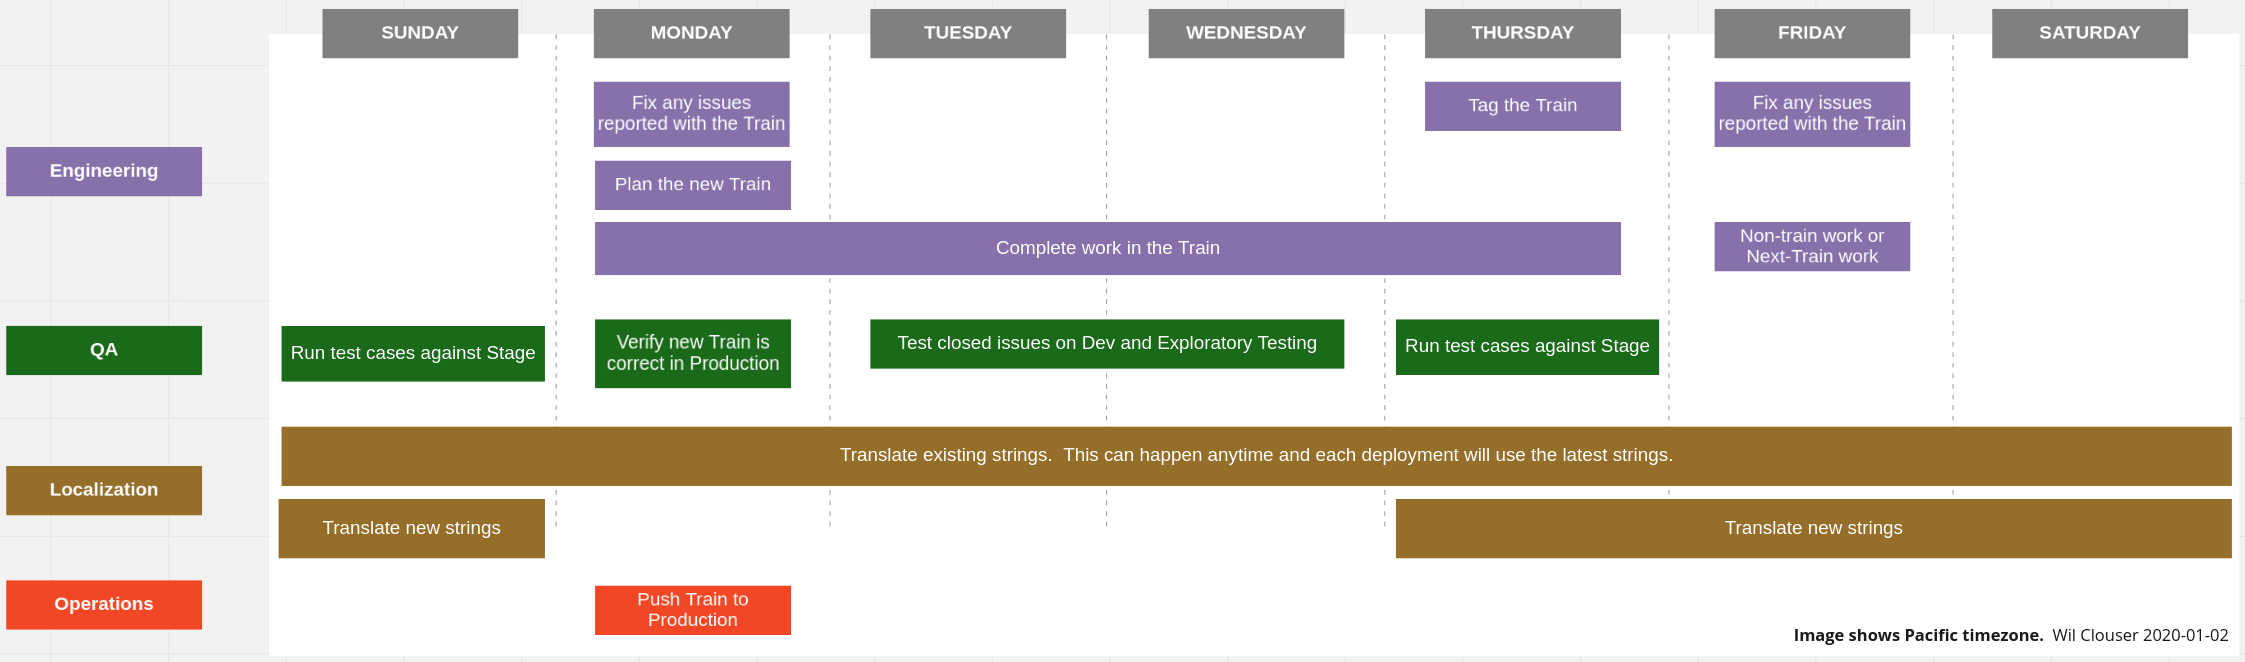
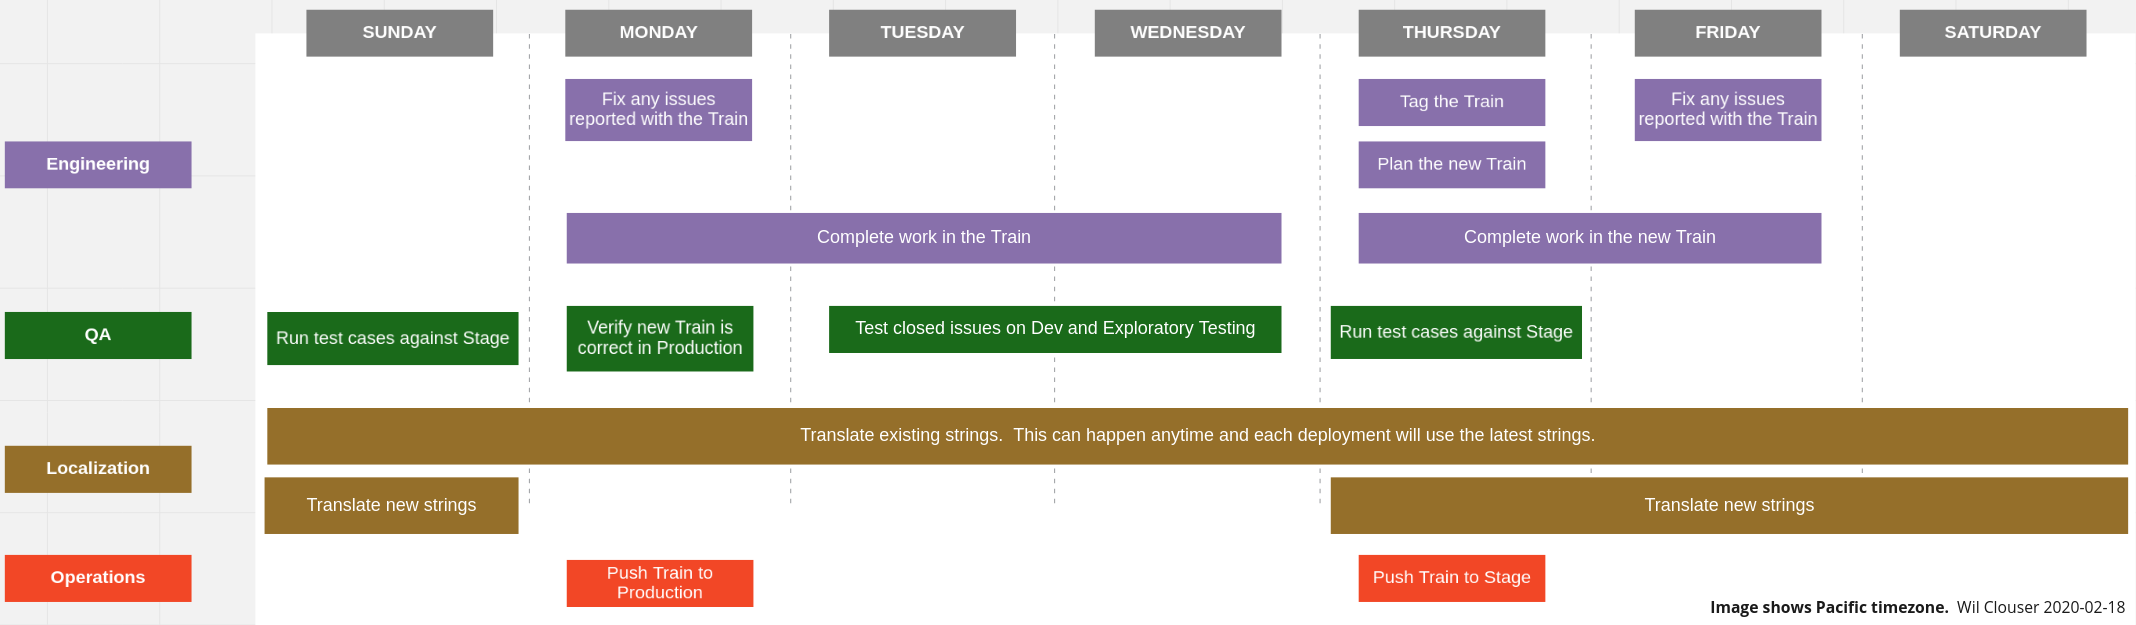
Update process docs a bit

diff --git a/docs/fxa-engineering/fxa-dev-process.md b/docs/fxa-engineering/fxa-dev-process.md
@@ -14,15 +14,12 @@ production](release-process.md).
 
 Above is a diagram illustrating the high level FxA development process.  It
 does not represent all the work each group does, nor does it show every group
-that is critical to shipping Firefox Accounts.  It's intention is to give a
-good idea of timeframes:
-* On Mondays, the Engineering team commits to a new set of work for the week.
-  The Operations team pushes last week's train live, and the QA team verifies
-  that there were no regressions.
-* QA and Engineering continue on Tuesday and Wednesday
-* On Thursday, the Engineering team tags the train (which pushes that point in
-  time to the Staging server).  QA now verifies the code on the Staging server,
-  and L10n is notified of new strings.
+that is critical to shipping Firefox Accounts.  It's intention is to give an
+idea of timeframes:
+* On Tuesday, after sign off from QA, the train is pushed to production
+* On Thursday, the Engineering team tags the current train and commits to a new
+  set of work for the next train.  The operations team pushes the newly tagged
+  train to our staging environment and the QA team starts to test it.
 * It's important to note that fixing regressions of the train on Stage is a
   higher priority than fixing new Issues in the current train.  Depending on
   the regression's severity it may be picked to Stage, picked to Production, or
@@ -63,23 +60,21 @@ file in Jira.
 ### New Features
 
 New features are expected to be described in an Epic with supporting User
-Stories (including acceptance criteria) and then have tasks under each User
-Story.
+Stories (including acceptance criteria).
 
 ```mermaid
 graph TD
 A[Epic] --> B(User Story)
 A --> C(User Story)
-B --> D[Sub-task]
-B --> E[Sub-task]
-C --> F[Sub-task]
+A --> D(Task)
+A --> E(Bug)
 ```
-Generally, we can expect Epics and User Stories to be written by the Product
-team.  Sub-tasks will probably be written by the engineering team.  For some
-reason sub-tasks are special cased in Jira and are created under the `More...`
-menu.  See [the Jira sub-task documentation][jira-subtasks].
+Generally, we can expect Epics to be written by the Product team.  User Stories
+will likely be written by the Product and Engineering teams as they need to be broken down small enough to fit
+inside of a sprint.  [Learn more about user stories][moz-user-stories].
 
-Bugs and defects generally won't use Epics.
+As Tasks and Bugs pop up, they should be associated with open Epics as
+appropriate.
 
 ### Sprints
 
@@ -310,8 +305,8 @@ by doing the following:
 [fxa-jira-dashboard]: https://jira.mozilla.com/secure/Dashboard.jspa?selectPageId=11006
 [fxa-jira-sprint]: https://jira.mozilla.com/secure/RapidBoard.jspa?rapidView=359&projectKey=FXA
 [fxa-jira-backlog]: https://jira.mozilla.com/secure/RapidBoard.jspa?rapidView=359&projectKey=FXA&view=planning.nodetail
-[jira-subtasks]: https://confluence.atlassian.com/jirasoftwareserver0713/creating-issues-and-sub-tasks-965543054.html#Creatingissuesandsub-tasks-CreateSubtaskCreatingasub-task
 [moz-bug-bounty]: https://www.mozilla.org/security/bug-bounty/
 [moz-code-review]: https://developer.mozilla.org/docs/Code_Review_FAQ
 [moz-sec-bugs]: https://www.mozilla.org/security/bug-bounty/faq-webapp/#bug-reporting
 [moz-standards]: https://developer.mozilla.org/docs/Mozilla/Developer_guide/Committing_Rules_and_Responsibilities
+[moz-user-stories]: https://docs.google.com/presentation/d/1zepsrOiHINBMS3TJ8nFDJ4gf8u6kRONe1hdMDnlyZvI/edit
